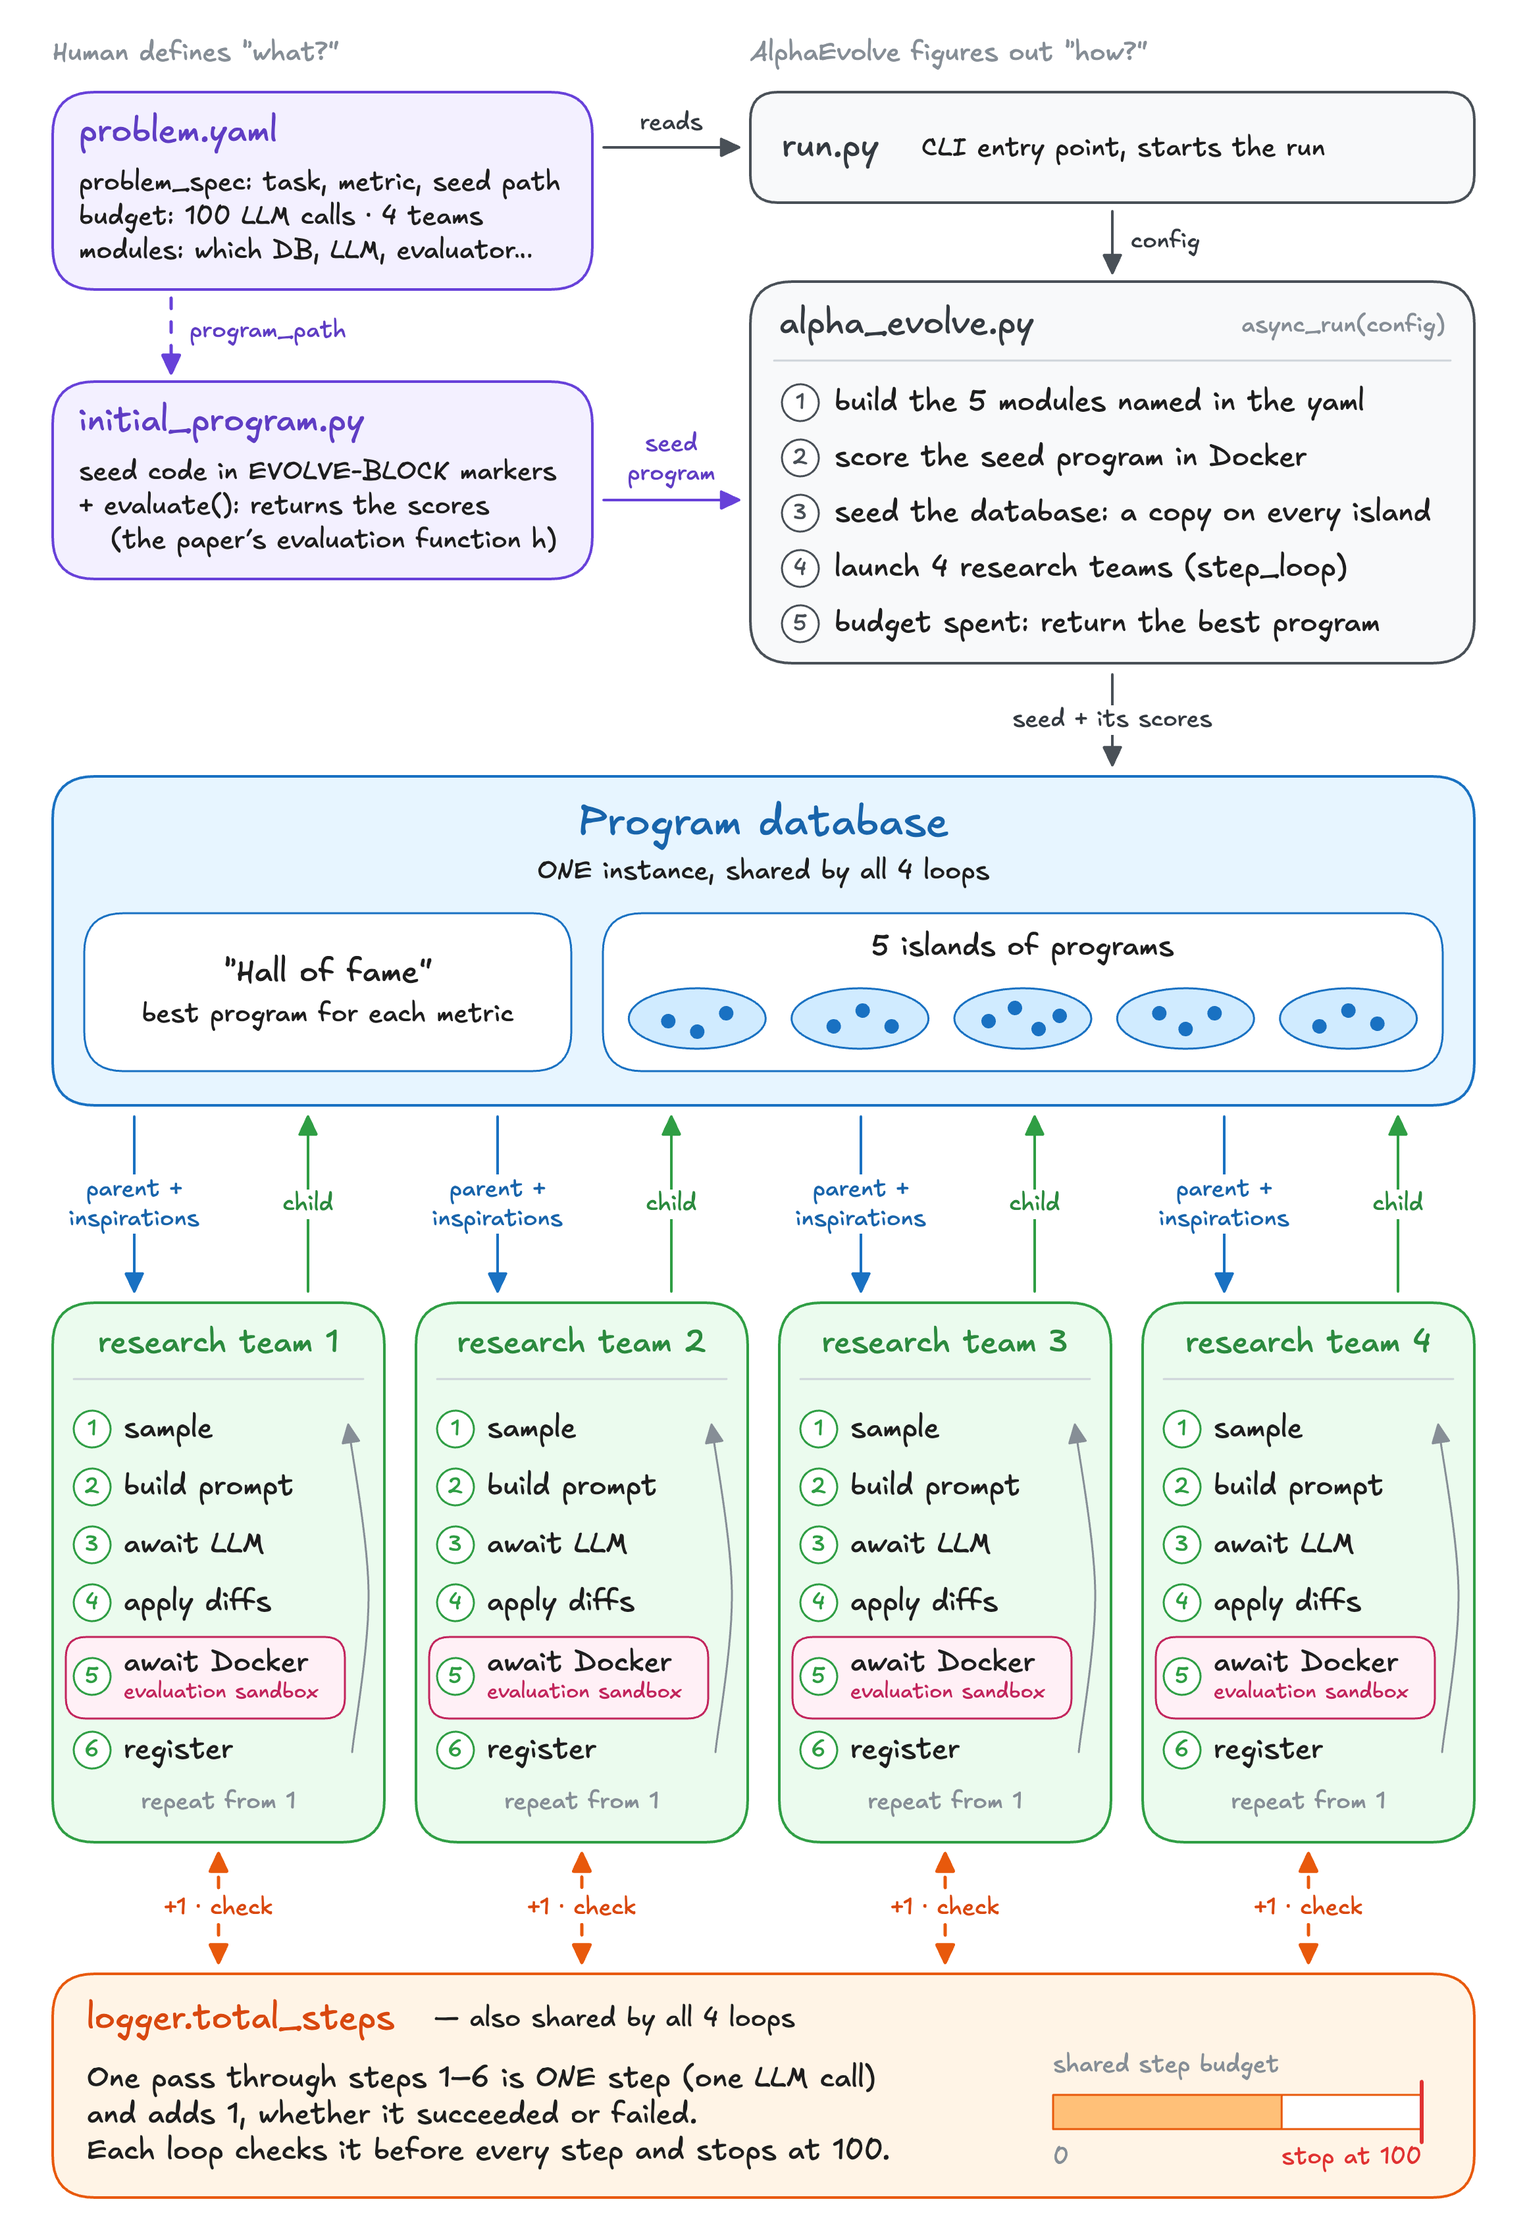
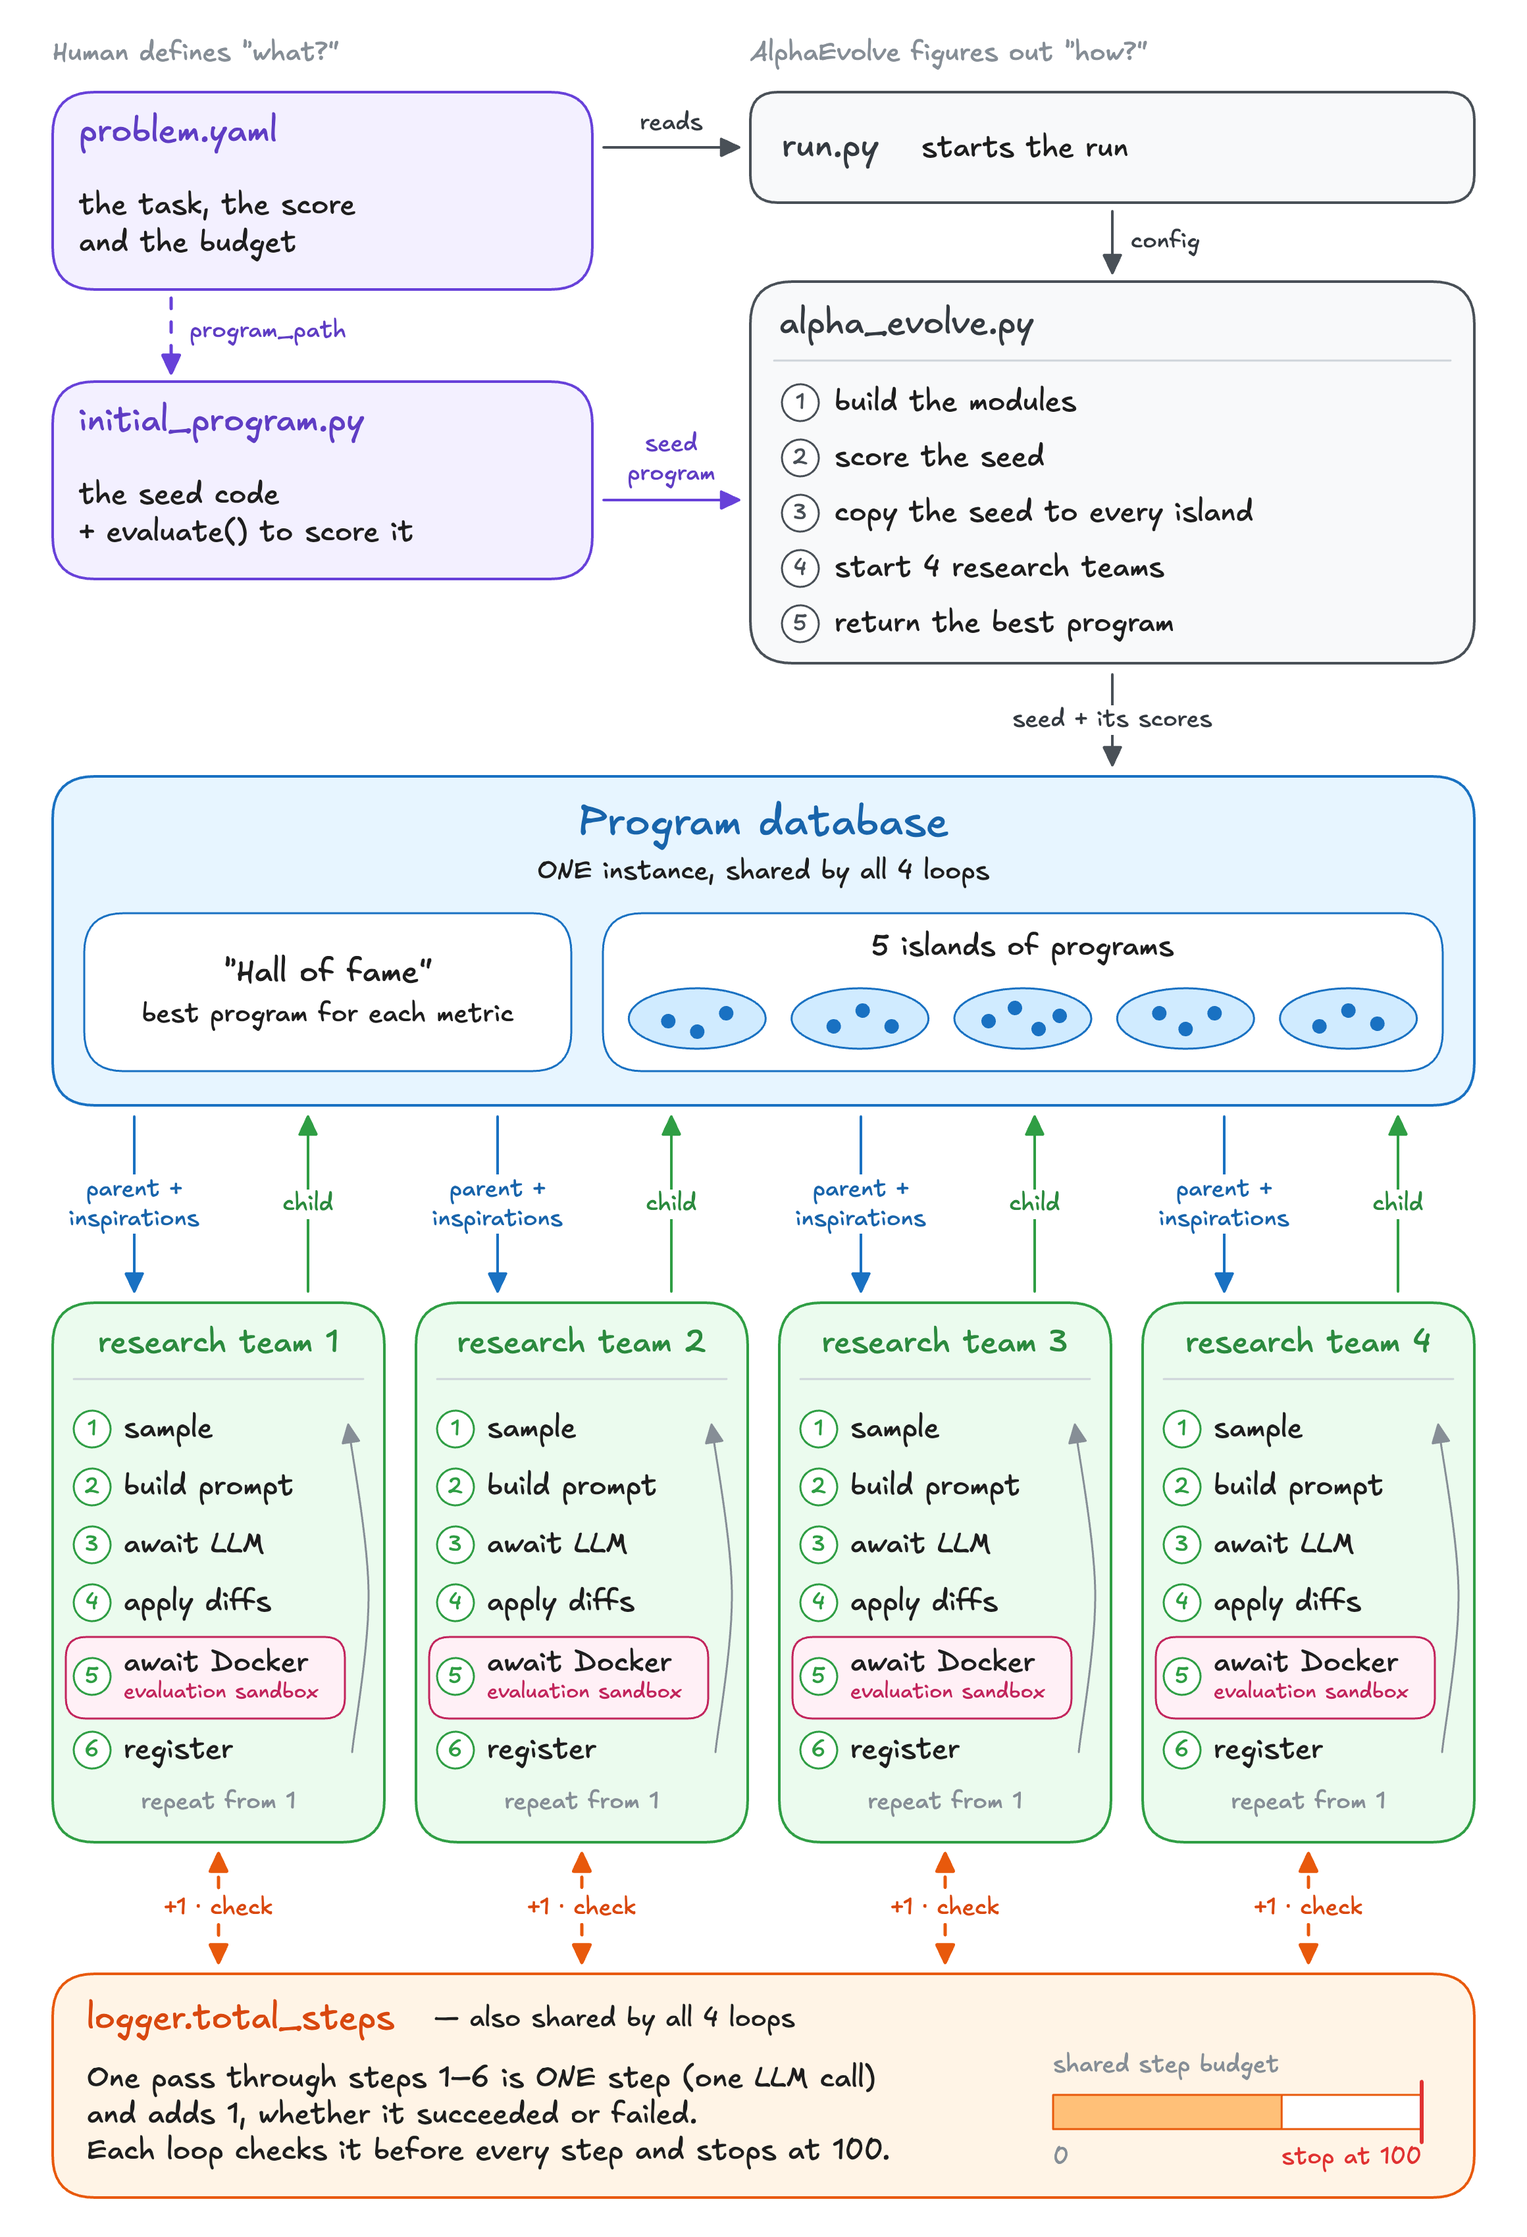
update docs

diff --git a/Inside AlphaEvolve: How Google DeepMind’s Coding Agent Discovers New Algorithms.md b/Inside AlphaEvolve: How Google DeepMind’s Coding Agent Discovers New Algorithms.md
@@ -33,40 +33,53 @@ To emphasize, this article is **not about an AI that does everything for you** a
 
 <p align="center"><em>Figure 3. Three results reported in the AlphaEvolve paper.</em></p>
 
-## Part 2. How does AlphaEvolve find a better circle packing?
-![overall_architecture](assets/alphaevolve_overall_architecture.png)
+## Part 2. How does AlphaEvolve find a better algorithm? A circle packing example.
 
-<p align="center"><em>Figure 4. Overall architecture of AlphaEvolve.</em></p>
+### 2.1 What is the circle packing problem described in the paper?
+Imagine placing $n$ circles of different sizes inside a unit square, the square $[0, 1]^2$ whose sides have length 1. The goal is to make the sum of radius as large as possible:
 
-Imagine placing 28 circles of different sizes inside a unit square. They must fit within the square and avoid overlapping. The goal is to make the **sum of their radii** as large as possible. The demo starts with a simple program that places circles in a pattern. The walkthrough below uses the saved run in this checkout. In the paper, the authors report improved square packings for 26 and 32 circles. [Demo configuration](src/data/problem_config/circle_packing.yaml) · [Saved run](2026-11-17_11-39-05_circle_packing/overview.md) · [Paper, Appendix B.12](https://arxiv.org/abs/2506.13131)
+$$
+\begin{aligned}
+\text{maximize} \quad & \sum_{i=1}^{n} r_i \\
+\text{subject to} \quad & r_i \le x_i \le 1 - r_i, \quad r_i \le y_i \le 1 - r_i, && i = 1, \dots, n, \\
+& \sqrt{(x_i - x_j)^2 + (y_i - y_j)^2} \ \ge\ r_i + r_j, && 1 \le i < j \le n, \\
+& r_i \ge 0, && i = 1, \dots, n.
+\end{aligned}
+$$
+
+Each constraint has a simple meaning:
+
+- **Inside the square.** A circle's centre must be at least one radius away from every side.
+- **No overlap.** Circles may touch, but they may not overlap.
+- **Non-negative radii.** A circle can shrink to a point, but its radius cannot be negative.
 
 ![Reconstructed 28-circle layouts in a unit square. The sparse seed scores 0.9598, and the denser best candidate scores 2.7161.](assets/circle-packing-before-after.png)
-
 <p align="center"><em>Figure 5. The 28-circle packing before and after 10 search steps.</em></p>
+
+### 2.2 How does AlphaEvolve approach the problem?
+![overall_architecture](assets/alphaevolve_overall_architecture.png)
+<p align="center"><em>Figure 4. Overall architecture of AlphaEvolve.</em></p>
+
+### 2.6 What does the program database store?
+
+The local database is a Python object in memory. Each record holds the full program, its scores, and any output saved by the evaluator. The database keeps a record holder for each score. When a parent comes from an island, its evaluated child joins that island even if it scores worse. A child of a record holder sampled from the best-program list earns a place in the database by setting a record. [Program database](src/components/evolution_database.py)
+
+![The final database holds P0010 as the overall best program. Island 2 still holds the seed and two evaluated descendants.](assets/program-database.png)
+
+<p align="center"><em>Figure 11. The program database at the end of the demo.</em></p>
+
 
 ### 2.1 What happens in one search step?
 
 AlphaEvolve evaluates the starting program, called the **seed**, before the search begins. Each step draws one program to edit, called the **parent**, and may also draw past programs for inspiration. The step ends by sending the evaluated program back to the database, which decides where to keep it. When the search ends, AlphaEvolve returns the best program for the main score. [Search loop](src/alpha_evolve.py)
 
 ![Sample a parent and examples, build a prompt, ask Gemini, apply the edits, evaluate the candidate, and register the result in the database.](assets/search-step.png)
-
 <p align="center"><em>Figure 6. One step of the search.</em></p>
-
-### 2.2 Why call it a prompt sampler?
-
-The prompt changes from step to step. It includes the problem description, the parent’s editable code and score, and up to four other programs with their scores. The sampler also picks wording from a set of options. One prompt might ask the model to combine ideas from earlier programs. Another might ask it to try a new optimization idea. Varying the examples and instructions gives the model different starting points. [Prompt sampler](src/components/prompting.py)
-
-![The prompt combines the problem description, parent, earlier programs, edit instructions, and wording sampled for that step.](assets/prompt-layers.png)
-
-<p align="center"><em>Figure 7. What goes into a prompt.</em></p>
 
 ### 2.3 What does the language model do?
 
 The Gemini client sends the prompt and receives proposed code edits. The model can adjust a small part of the code or introduce a different algorithm. In circle packing, for example, it can try staggered rows as a starting arrangement and add a numerical optimizer to move the circles. The evaluator then measures the effect of those changes. The client supports choosing among models with different probabilities, and the saved demo used one Gemini model. [Gemini client](src/components/llm_client.py) · [Saved run](2026-11-17_11-39-05_circle_packing/overview.md)
 
-![The seed places circles in rings and shrinks their radii. The model proposes trying several layouts, solving for radii, and moving the centers.](assets/model-proposal.png)
-
-<p align="center"><em>Figure 8. A model edit can change the algorithm.</em></p>
 
 ### 2.4 How does AlphaEvolve limit what the model can edit?
 
@@ -84,21 +97,10 @@ The model is asked to return `SEARCH` and `REPLACE` pairs. Each pair identifies 
 
 <p align="center"><em>Figure 10. Two ways to choose a parent.</em></p>
 
-### 2.6 What does the program database store?
-
-The local database is a Python object in memory. Each record holds the full program, its scores, and any output saved by the evaluator. The database keeps a record holder for each score. When a parent comes from an island, its evaluated child joins that island even if it scores worse. A child of a record holder sampled from the best-program list earns a place in the database by setting a record. [Program database](src/components/evolution_database.py)
-
-![The final database holds P0010 as the overall best program. Island 2 still holds the seed and two evaluated descendants.](assets/program-database.png)
-
-<p align="center"><em>Figure 11. The program database at the end of the demo.</em></p>
 
 ### 2.7 Why does AlphaEvolve evaluate programs in Docker?
 
 Each candidate runs in a fresh container with the same installed dependencies. This isolates generated code from the rest of the experiment and makes it easier to compare candidates in the same environment. The container has networking disabled and limits on memory, CPU, and execution time. The evaluator calls `evaluate()` and reads its scores and any optional output. For the 28-circle demo, `evaluate()` checks that the circles fit inside the square and do not overlap, then adds the radii. Invalid packings receive a score of negative infinity. [Docker evaluator](src/components/evaluator_client.py) · [Circle-packing evaluator](src/data/initial_programs/circle_packing.py)
-
-![A candidate enters a fresh Docker container with no network and resource limits. The evaluator returns a score and optional output.](assets/docker-evaluation.png)
-
-<p align="center"><em>Figure 12. A fresh Docker container for each candidate.</em></p>
 
 ### 2.8 How do new programs build on earlier ideas?
 
@@ -110,43 +112,19 @@ In the saved demo, the seed scored **0.9598**. After several invalid candidates,
 
 <p align="center"><em>Figure 13. The branch that produced the best candidate.</em></p>
 
-### 2.9 Why does AlphaEvolve rebuild its islands?
-
-With the default settings, the first registration after two hours triggers a reset. The database takes up to five programs from each island, with a strong preference for that island’s best program on the first draw. It removes duplicates and distributes the selected programs across fresh islands. This gives one island a chance to build on ideas from another and clears out much of the old population. The record holders are kept separately. [Island reset code](src/components/evolution_database.py#L252)
-
-![An illustrative three-island reset samples survivors, removes duplicates, and distributes candidates from different old islands across fresh islands.](assets/island-reset.png)
-
-<p align="center"><em>Figure 14. An island reset mixes surviving programs.</em></p>
-
-### 2.10 Why does AlphaEvolve use `asyncio`?
+### 2.10 Why does AlphaEvolve use `asyncio` module?
 
 An API request and a Docker evaluation can both take time. `asyncio` lets another search step make progress while one is waiting. The loops share the same database, so a newly scored program can become a parent as soon as it is registered. They also share a budget. In the saved run, two loops finished ten counted steps. One extra model call had already started when the run reached its limit, and that step was cancelled. [Search loop](src/alpha_evolve.py) · [Run summary](2026-11-17_11-39-05_circle_packing/overview.md#final-summary)
 
-![A timeline from the first 180 seconds of the saved run shows two loops waiting for Gemini at the same time, with short evaluation intervals.](assets/asyncio-run-timeline.png)
 
-<p align="center"><em>Figure 15. Two search steps overlapping with asyncio.</em></p>
-
-## Part 3. How could researchers use AlphaEvolve in their own work?
-
-For a PhD project, I would start with one part of an experiment that is easy to measure. Suppose I want a faster data loader. I could give the agent the current loader, test that each version returns the expected examples, and measure how long it takes to process a fixed workload. A promising edit could then be checked on another machine or a larger dataset.
-
-The same workflow could help test new training rules or numerical methods. Researchers would still choose the question, decide which comparisons are fair, and study why an improvement works. A log of the experiments makes it easier to turn a strong result into a follow-up question.
-
-![Start with the current data loader, check and time the proposed edits, then verify the strongest edit on another machine or a larger dataset.](assets/data-loader-experiment.png)
-
-<p align="center"><em>Figure 16. Testing a faster data loader.</em></p>
-
-## Part 4. What are the limits of AlphaEvolve?
+## Part 3. What are the limits of AlphaEvolve?
 
 - **The score guides the search.** A program can do well on a narrow test and perform poorly on new inputs. An independent test can check whether an apparent improvement holds up. For a mathematical construction, an independent verifier can check whether it meets all the stated conditions.
 - **Experiments have a cost.** Model calls and evaluations take time and compute. When candidates train a model or run a long simulation, the paper’s staged evaluation approach can screen candidates with cheaper tests before running expensive ones. [Paper, §2.4](https://arxiv.org/abs/2506.13131)
 - **Logs and checkpoints serve different purposes.** `LocalLogger` prints progress to the console. The `VerboseFileLogger` in this checkout writes Markdown traces, so records already written can survive shutdown. The search population lives in memory, and the runner has no built-in way to resume it from those logs. [File logger](src/components/verbose_logging.py) · [Runner](src/alpha_evolve.py)
 
-![Three limits of the workflow are whether results generalize, how much each trial costs, and whether an interrupted run can resume.](assets/limits-and-checks.png)
 
-<p align="center"><em>Figure 17. What a promising score leaves open.</em></p>
-
-## How could I organize a machine-learning experiment around this workflow?
+## Part 4. A new project template for research integrating AlphaEvolve
 
 For a machine-learning experiment, I would keep the part that changes small and make it easy to rerun the tests. A first experiment could evolve an image augmentation policy. The score could be validation accuracy under a fixed training budget, with training time recorded alongside it.
 
@@ -161,13 +139,9 @@ For a machine-learning experiment, I would keep the part that changes small and 
 
 I would first run the evaluator on the baseline, then give the agent a small budget. If it finds an improvement, I would rerun the best candidate and the baseline with the same set of seeds before reporting the result.
 
-![An image augmentation policy can change while training and validation stay fixed. An independent verifier compares the best candidate with the baseline.](assets/ml-experiment-structure.png)
-
-<p align="center"><em>Figure 18. A machine-learning experiment with one editable component.</em></p>
-
 ## Acknowledgments
-This article is a collaboration with Claude, a large language model developed by Anthropic, and GPT-6 Astra, a large language model developed by OpenAI. These models helped me summarize the findings of the AlphaEvolve paper, and all figures were created with their help. The ideas and opinions expressed in this article are my own.
+This article is a collaboration with Claude developed by Anthropic, and GPT-6 Astra developed by OpenAI. These models helped me summarize the findings of the AlphaEvolve paper, and all figures were created with their help. The ideas and opinions expressed in this article are my own.
 
 ## References
-1. A. Novikov et al. (2025), [*AlphaEvolve: A coding agent for scientific and algorithmic discovery*](https://doi.org/10.48550/arXiv.2506.13131). arXiv:2506.13131.
-2. Google DeepMind, [AlphaEvolve source code and verification notebooks](https://github.com/google-deepmind/alphaevolve).
+1\. A. Novikov et al. (2025), [*AlphaEvolve: A coding agent for scientific and algorithmic discovery*](https://doi.org/10.48550/arXiv.2506.13131). arXiv:2506.13131.  
+2\. Google DeepMind, [AlphaEvolve source code and verification notebooks](https://github.com/google-deepmind/alphaevolve).
